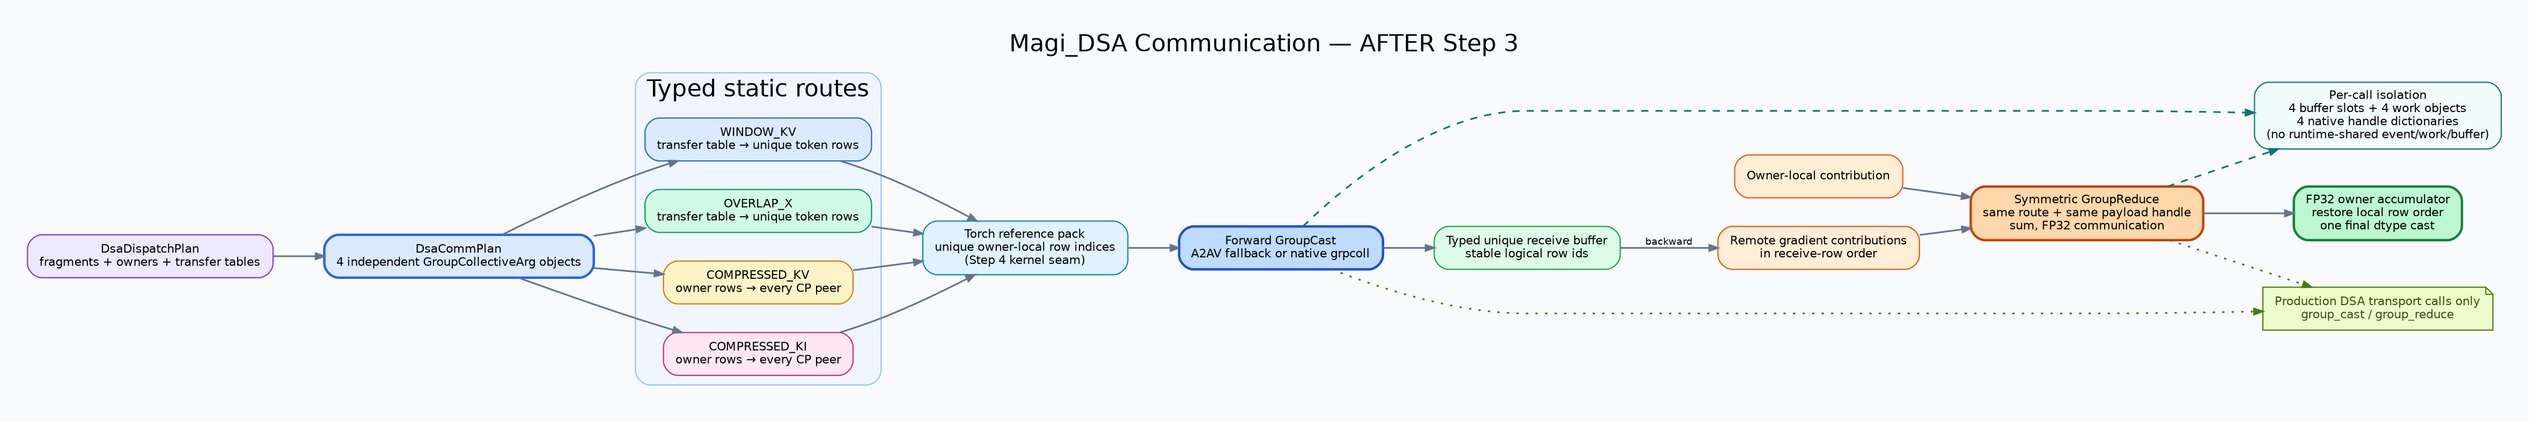
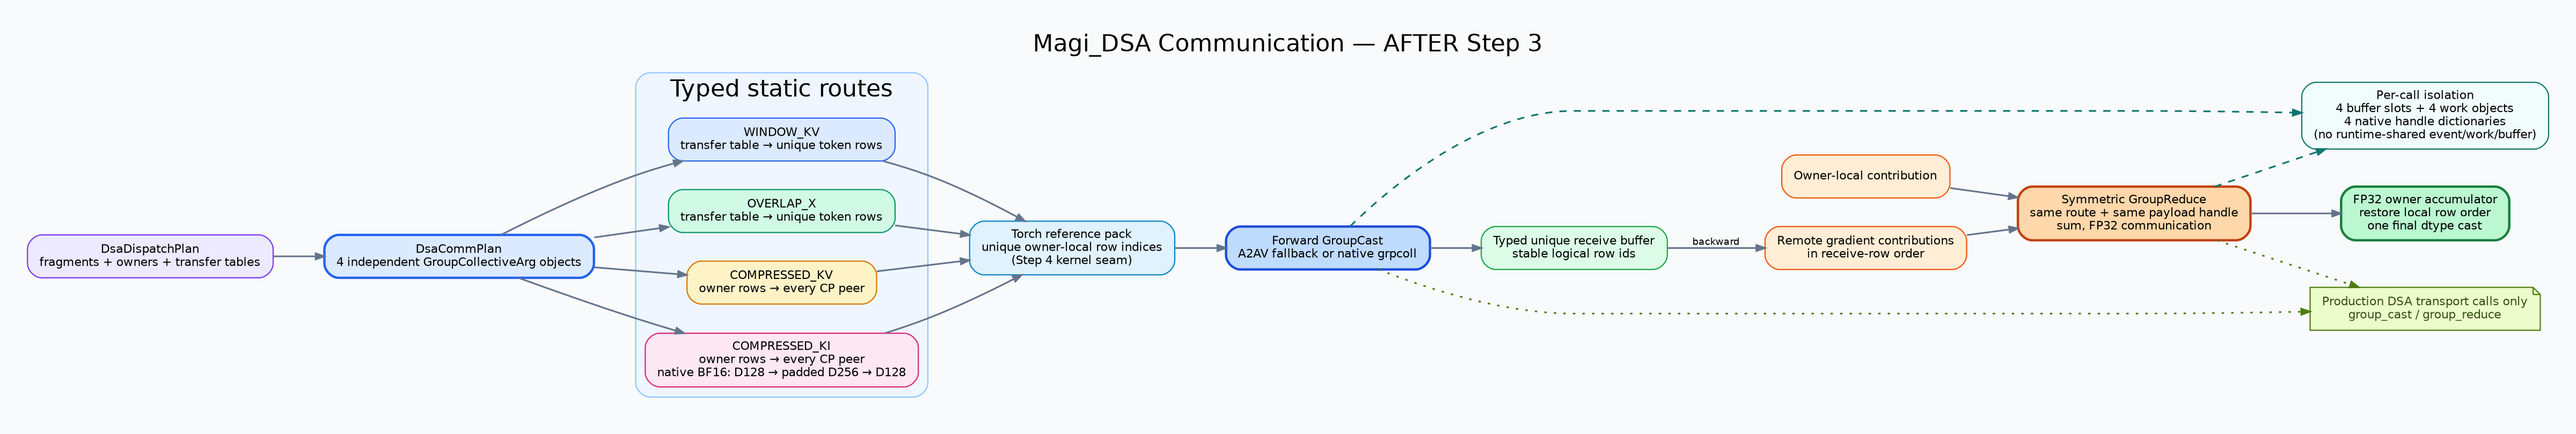
Align native DSA compressed index transport

diff --git a/magi_attention/functional/dsa_comm.py b/magi_attention/functional/dsa_comm.py
@@ -25,14 +25,18 @@ only :class:`DsaCommMeta` is suitable for caching as static plan state.
 
 from __future__ import annotations
 
+import math
 from dataclasses import dataclass, field
 from enum import Enum
 from typing import Any, Iterator, Sequence
 
 import torch
 import torch.distributed as dist
+import torch.nn.functional as F
 
+from magi_attention import env
 from magi_attention.comm.primitive.grpcoll import group_cast, group_reduce
+from magi_attention.comm.primitive.grpcoll._buffer import GrpCollBuffer
 from magi_attention.comm.work import WorkWithPostProcessFn
 from magi_attention.meta.collection.comm_meta import GroupCollectiveArg
 from magi_attention.meta.collection.dsa_meta import (
@@ -163,6 +167,7 @@ class DsaCommBufferSlot:
     kind: DsaPayloadKind
     send_buffer: torch.Tensor
     receive_buffer: torch.Tensor
+    logical_row_shape: tuple[int, ...]
     reduce_output_buffer: torch.Tensor | None = None
 
 
@@ -189,7 +194,10 @@ class DsaGroupCastWork:
                 f"expected {tuple(self.buffers.receive_buffer.shape)}"
             )
         self.buffers.receive_buffer = receive
-        self._result = DsaTypedPayload(self.meta.kind, receive)
+        logical_receive = _restore_logical_row_shape(
+            receive, self.buffers.logical_row_shape
+        )
+        self._result = DsaTypedPayload(self.meta.kind, logical_receive)
         return self._result
 
 
@@ -481,6 +489,39 @@ def _index_tensor(indices: Sequence[int], device: torch.device) -> torch.Tensor:
     return torch.tensor(indices, dtype=torch.int64, device=device)
 
 
+def _pad_native_hidden_size(tensor: torch.Tensor) -> torch.Tensor:
+    """Pad one native-grpcoll row to its dtype-specific vector alignment."""
+
+    if not env.comm.is_native_grpcoll_enable():
+        return tensor
+    hidden_size = math.prod(tensor.shape[1:])
+    alignment = GrpCollBuffer.get_hidden_size_alignment(tensor.dtype)
+    padded_hidden_size = (hidden_size + alignment - 1) // alignment * alignment
+    flattened = tensor.reshape(tensor.size(0), hidden_size)
+    if padded_hidden_size == hidden_size:
+        return flattened.contiguous()
+    return F.pad(flattened, (0, padded_hidden_size - hidden_size)).contiguous()
+
+
+def _restore_logical_row_shape(
+    tensor: torch.Tensor,
+    logical_row_shape: Sequence[int],
+) -> torch.Tensor:
+    logical_hidden_size = math.prod(logical_row_shape)
+    transport_hidden_size = math.prod(tensor.shape[1:])
+    flattened = tensor.reshape(tensor.size(0), transport_hidden_size)
+    if flattened.size(1) < logical_hidden_size:
+        raise RuntimeError(
+            f"transport row width {flattened.size(1)} is smaller than logical "
+            f"row width {logical_hidden_size}"
+        )
+    return (
+        flattened[:, :logical_hidden_size]
+        .reshape(tensor.size(0), *logical_row_shape)
+        .contiguous()
+    )
+
+
 def reference_pack_dsa_payload(
     payload: DsaTypedPayload,
     meta: DsaCommMeta,
@@ -531,11 +572,17 @@ def start_dsa_group_cast(
 ) -> DsaGroupCastWork:
     """Reference-pack and launch one typed forward GroupCast."""
 
-    send_buffer = reference_pack_dsa_payload(payload, meta)
-    receive_buffer = payload.tensor.new_empty(
-        (meta.receive_row_count, *payload.tensor.shape[1:])
+    logical_send_buffer = reference_pack_dsa_payload(payload, meta)
+    send_buffer = _pad_native_hidden_size(logical_send_buffer)
+    receive_buffer = send_buffer.new_empty(
+        (meta.receive_row_count, *send_buffer.shape[1:])
     )
-    buffers = DsaCommBufferSlot(meta.kind, send_buffer, receive_buffer)
+    buffers = DsaCommBufferSlot(
+        meta.kind,
+        send_buffer,
+        receive_buffer,
+        tuple(payload.tensor.shape[1:]),
+    )
     native_handle_dict: dict[str, Any] = {"group_cast": None, "group_reduce": None}
     work = group_cast(
         input=send_buffer.detach(),

diff --git a/tests/test_dsa/test_dsa_cp.py b/tests/test_dsa/test_dsa_cp.py
@@ -184,37 +184,48 @@ class TestDsaCommMetadata:
         comm_plan = build_dsa_comm_plan(
             _noncontiguous_cp2_plan(), 0, object()  # type: ignore[arg-type]
         )
+        widths = {
+            DsaPayloadKind.WINDOW_KV: 512,
+            DsaPayloadKind.OVERLAP_X: 256,
+            DsaPayloadKind.COMPRESSED_KV: 512,
+            DsaPayloadKind.COMPRESSED_KI: 128,
+        }
         cast_works = []
-        for meta in comm_plan:
-            local = DsaTypedPayload(
-                meta.kind,
-                torch.zeros(
-                    (meta.local_row_count, 16),
-                    dtype=torch.bfloat16,
-                    device="cuda",
-                ),
-            )
-            cast_work = start_dsa_group_cast(local, meta, async_op=True)
-            remote = cast_work.wait()
-            reduce_work = start_dsa_group_reduce(
-                DsaTypedPayload(meta.kind, remote.tensor.float()),
-                DsaTypedPayload(
+        logical_receive_widths = []
+        with switch_envvar_context("MAGI_ATTENTION_NATIVE_GRPCOLL", enable=True):
+            for meta in comm_plan:
+                local = DsaTypedPayload(
                     meta.kind,
-                    torch.ones(
-                        (meta.local_row_count, 16),
-                        dtype=torch.float32,
+                    torch.zeros(
+                        (meta.local_row_count, widths[meta.kind]),
+                        dtype=torch.bfloat16,
                         device="cuda",
                     ),
-                ),
-                cast_work,
-                async_op=True,
-            )
-            reduce_work.wait()
-            cast_works.append(cast_work)
+                )
+                cast_work = start_dsa_group_cast(local, meta, async_op=True)
+                remote = cast_work.wait()
+                logical_receive_widths.append(remote.tensor.size(1))
+                reduce_work = start_dsa_group_reduce(
+                    DsaTypedPayload(meta.kind, remote.tensor.float()),
+                    DsaTypedPayload(
+                        meta.kind,
+                        torch.ones(
+                            (meta.local_row_count, widths[meta.kind]),
+                            dtype=torch.float32,
+                            device="cuda",
+                        ),
+                    ),
+                    cast_work,
+                    async_op=True,
+                )
+                reduce_work.wait()
+                cast_works.append(cast_work)
 
         expected_names = [kind.value for kind in DsaPayloadKind]
         assert [call["buffer_name"] for call in cast_calls] == expected_names
         assert [call["buffer_name"] for call in reduce_calls] == expected_names
+        assert [call["input"].size(1) for call in cast_calls] == [512, 256, 512, 256]
+        assert logical_receive_widths == [512, 256, 512, 128]
         assert len({id(work.native_handle_dict) for work in cast_works}) == 4
         for meta, cast_call, reduce_call, cast_work in zip(
             comm_plan, cast_calls, reduce_calls, cast_works

diff --git a/docs/magi_dsa_v4_design.md b/docs/magi_dsa_v4_design.md
@@ -87,6 +87,11 @@ forward 先用 torch `index_select` reference map 打包 owner-local unique rows
 只做一次目标 dtype 转换。reference map 是步骤 4 SM90 CuTe DSL kernel 的明确
 替换缝，不改变 collective metadata/API。
 
+native grpcoll 的 BF16 transport row 要求 256-element 对齐；compressed Ki 的
+逻辑宽度固定为 128，因此仅在 native send/receive buffer 内部右侧补零到 256，
+接收后立即裁回 128。A2AV、logical row id 和对外 tensor schema 均不改变；反向
+FP32 的 128-element row 已满足该 dtype 的 native 对齐要求。
+
 `DsaCommBufferSlot`、`DsaGroupCastWork`、`DsaGroupReduceWork` 和 native handle
 dictionary 都按单次调用、单 payload 创建，不进入 runtime 共享静态对象。生产
 DSA 通信源码只调用 `group_cast` / `group_reduce`；A2AV 是该 primitive 的内建

diff --git a/tests/test_dsa/README.md b/tests/test_dsa/README.md
@@ -47,7 +47,9 @@ docker run --rm --gpus all --ipc=host \
 The A2AV fallback, non-contiguous routes, FP32 reverse reduction, and empty
 routes run without the optional compiled `magi_attn_comm` extension. The native
 grpcoll parity case executes when that extension is installed; otherwise that
-single case is reported as skipped. No attention kernel runs in this file yet.
+single case is reported as skipped. The native case also checks the internal
+BF16 D=128 to D=256 transport padding used by compressed Ki. No attention
+kernel runs in this file yet.
 
 The CPU-only fragment and solver tests run in the same frozen environment:
 

diff --git a/tests/test_dsa/README_zh.md b/tests/test_dsa/README_zh.md
@@ -44,7 +44,8 @@ docker run --rm --gpus all --ipc=host \
 
 A2AV fallback、非连续路线、FP32 反向归约和空路线不依赖可选的
 `magi_attn_comm` 编译扩展。扩展已安装时会执行 native grpcoll 对拍；否则只
-skip 该单项。此文件当前不运行 attention kernel。
+skip 该单项。native 用例同时检查 compressed Ki 从 BF16 D=128 到 transport
+D=256 的内部 padding。此文件当前不运行 attention kernel。
 
 fragment 与 solver 是 CPU-only 测试，在同一冻结镜像中运行：
 
